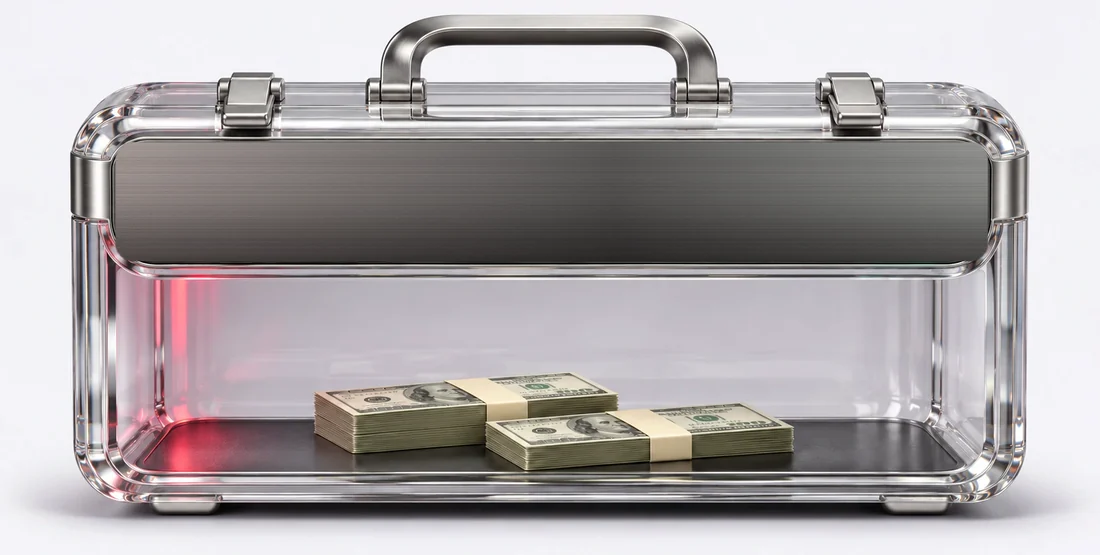
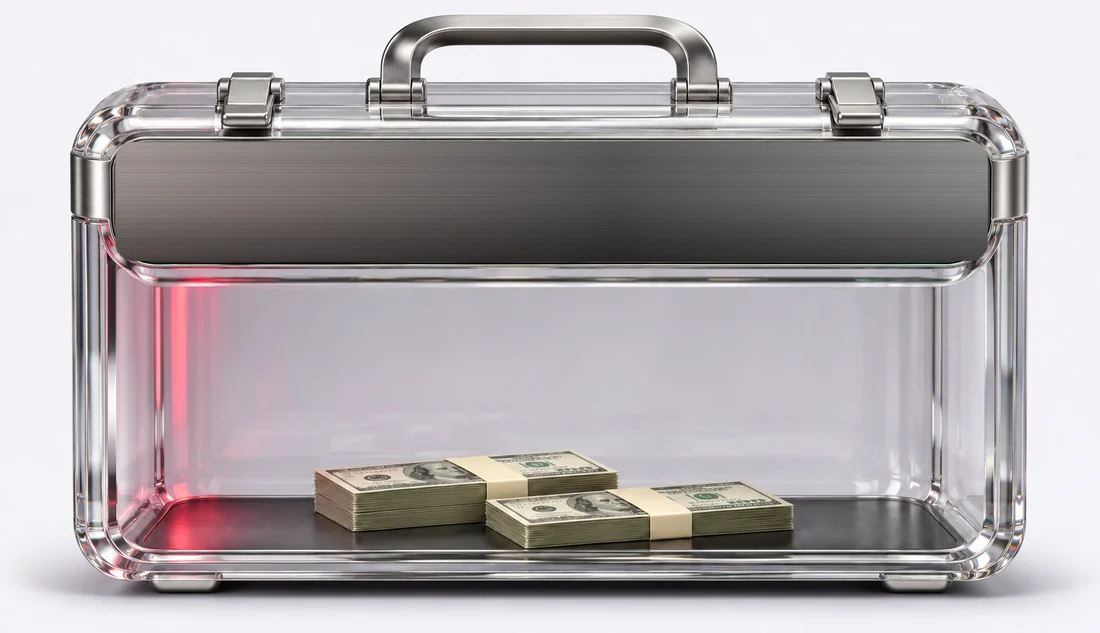
For influencers calculator: the case as wide as the cards round it, its glass body 15% taller; phones: the case's top, the plate as a card, its glass body
Claude-Session: https://claude.ai/code/session_01JhZ5DB5vxLeXKkYquUUDqb

diff --git a/site/for-influencers/index.html b/site/for-influencers/index.html
@@ -1005,9 +1005,10 @@ html.tq-mnav-on .tq-lfab { opacity: 0; pointer-events: none; transform: scale(.8
 .inf-calc__in { max-width: 1280px; margin: 0 auto; padding: 0 clamp(16px, 5vw, 72px); box-sizing: border-box; }
 .inf-calc__h2 { margin: 0 auto clamp(14px, 2vw, 28px); text-align: center; }
 .inf-calc__red { color: #b0101c; }
-.inf-calc__case { --cw: min(calc(100vw - 32px), 115%); position: relative; width: var(--cw); margin-left: calc((100% - var(--cw)) / 2); }
-.inf-calc__case picture, .inf-calc__img { display: block; width: 100%; height: auto; }
-.inf-calc__plate { --u: calc(100cqw / 1279); position: absolute; left: 10.484%; top: 25.584%; width: 79.342%; height: 21.525%; container-type: inline-size; color: #fff; }
+.inf-calc__case { position: relative; }
+.inf-calc__ph { display: none; }
+.inf-calc__wide, .inf-calc__img { display: block; width: 100%; height: auto; }
+.inf-calc__plate { --u: calc(100cqw / 1279); position: absolute; left: 10.484%; top: 22.414%; width: 79.342%; height: 18.858%; container-type: inline-size; color: #fff; }
 .inf-calc__plate > * { position: absolute; }
 .inf-calc__l { left: calc(34 * var(--u)); top: calc(14 * var(--u)); width: calc(360 * var(--u)); font-size: calc(32 * var(--u)); line-height: 1.02; letter-spacing: .02em; padding: 0;
   background: linear-gradient(180deg, #f4f4f6 0%, #a9abb1 55%, #e2e3e7 100%); -webkit-background-clip: text; background-clip: text; color: transparent; text-wrap: balance; }
@@ -1053,9 +1054,12 @@ html.tq-mnav-on .tq-lfab { opacity: 0; pointer-events: none; transform: scale(.8
 }
 @media (max-width: 640px) {
 .inf-calc { padding-bottom: var(--tq-gap); }
-.inf-calc__case { --cw: 100%; display: flex; flex-direction: column; }
-.inf-calc__case picture { order: 2; margin-top: -6px; }
-.inf-calc__plate { --u: .3px; position: relative; order: 1; left: auto; top: auto; width: auto; height: auto; container-type: normal; z-index: 1;
+.inf-calc__case { display: flex; flex-direction: column; }
+.inf-calc__wide { display: none; }
+.inf-calc__ph { display: block; width: 100%; height: auto; }
+.inf-calc__ph--top { order: 0; margin-bottom: -3px; }
+.inf-calc__ph--body { order: 2; margin-top: -3px; }
+.inf-calc__plate { --u: .3px; position: relative; order: 1; left: auto; top: auto; width: auto; height: auto; margin: 0 1.2%; container-type: normal; z-index: 1;
     display: grid; grid-template-columns: 1fr auto; grid-template-areas: "l o" "t t" "mm mm" "out out" "tabs tabs"; gap: 10px 12px; align-items: center; padding: 18px 16px 12px; border-radius: 18px;
     background: repeating-linear-gradient(180deg, rgba(255,255,255,.035) 0 1px, rgba(0,0,0,0) 1px 3px), linear-gradient(90deg, #4e4c4d 0%, #3c3b3c 50%, #2e2d2e 100%);
     box-shadow: 0 0 0 2px #b9bbc0, 0 0 0 4px #e9eaee, 0 14px 30px -14px rgba(0,0,0,.6); }
@@ -1566,12 +1570,14 @@ html.tq-mnav-on .tq-lfab { opacity: 0; pointer-events: none; transform: scale(.8
          calc_case.py) whose plate carries the live controls: clients you refer (a four-drum counter that rolls, a slider
          5–1000), the estimate in a red glass window and a Day / Month / Year switch (orbit.js). The estimate is the home
          page's own sum: clients × lots per client a month × $7.50 a lot (a day is a thirtieth of the month, a year twelve
-         months). Phones: the plate as a card over the case's glass body. -->
+         months). Phones: the case's top, the plate as a card, the case's glass body. -->
     <section id="calc" class="inf-calc" data-calc-case data-screen-label="Earnings calculator">
       <div class="inf-calc__in">
         <h2 class="inf-calc__h2 tq-h2" data-fitw>How much could you <span class="inf-calc__red">earn?</span></h2>
         <div class="inf-calc__case">
-          <picture><source media="(max-width: 640px)" srcset="../assets/influencers/calc-body-800.webp?v=19f4c8b9d8"><img class="inf-calc__img" src="../assets/influencers/calc-case-1600.webp?v=b8380c2732" srcset="../assets/influencers/calc-case-1100.webp 1100w, ../assets/influencers/calc-case-1600.webp 1600w" sizes="(max-width: 1280px) 100vw, 1180px" width="1600" height="807" alt="A glass briefcase with stacks of notes inside" loading="lazy" decoding="async"></picture>
+          <picture class="inf-calc__wide"><img class="inf-calc__img" src="../assets/influencers/calc-case-1600.webp?v=de0c53a586" srcset="../assets/influencers/calc-case-1100.webp 1100w, ../assets/influencers/calc-case-1600.webp 1600w" sizes="(max-width: 1280px) 100vw, 1136px" width="1600" height="921" alt="A glass briefcase with stacks of notes inside" loading="lazy" decoding="async"></picture>
+          <img class="inf-calc__ph inf-calc__ph--top" src="../assets/influencers/calc-top-800.webp?v=832df81afe" width="800" height="108" alt="" loading="lazy" decoding="async">
+          <img class="inf-calc__ph inf-calc__ph--body" src="../assets/influencers/calc-body-800.webp?v=773dab4928" width="800" height="292" alt="" loading="lazy" decoding="async">
           <div class="inf-calc__plate">
             <div class="inf-calc__l tq-h2">Clients you refer</div>
             <div class="inf-calc__odo" aria-hidden="true"><span class="inf-calc__drum"><span class="inf-calc__reel" data-calc-reel><i>0</i><i>1</i><i>2</i><i>3</i><i>4</i><i>5</i><i>6</i><i>7</i><i>8</i><i>9</i></span></span><span class="inf-calc__drum"><span class="inf-calc__reel" data-calc-reel><i>0</i><i>1</i><i>2</i><i>3</i><i>4</i><i>5</i><i>6</i><i>7</i><i>8</i><i>9</i></span></span><span class="inf-calc__drum"><span class="inf-calc__reel" data-calc-reel><i>0</i><i>1</i><i>2</i><i>3</i><i>4</i><i>5</i><i>6</i><i>7</i><i>8</i><i>9</i></span></span><span class="inf-calc__drum"><span class="inf-calc__reel" data-calc-reel><i>0</i><i>1</i><i>2</i><i>3</i><i>4</i><i>5</i><i>6</i><i>7</i><i>8</i><i>9</i></span></span></div>

diff --git a/site/assets/css/influencers.css b/site/assets/css/influencers.css
@@ -164,15 +164,16 @@
 
 /* ---- Earnings calculator (owner's design "How much could you earn?", November 2026): a glass briefcase, live controls
    on its lid plate. The plate is placed in % of the picture; inside it every size is in the design's px of the plate
-   (1279 x 175: --u, a container unit), so it scales with the case. The case is 15% wider than the page's column (owner's
-   wish), never wider than the screen. Phones: the plate as a card over the case's glass body (calc-body-800.webp). */
+   (1279 x 175: --u, a container unit), so it scales with the case. The case as wide as the cards round it, its glass body 15%
+   taller than drawn (owner's wish; calc_case.py). Phones: the case's top, the plate as a card, the case's body. */
 .inf-calc { background: #f3f2f7; padding: 0 0 var(--tq-gap); font-family: 'Inter', sans-serif; color: #0b0b0d; }
 .inf-calc__in { max-width: 1280px; margin: 0 auto; padding: 0 clamp(16px, 5vw, 72px); box-sizing: border-box; }
 .inf-calc__h2 { margin: 0 auto clamp(14px, 2vw, 28px); text-align: center; }
 .inf-calc__red { color: #b0101c; }
-.inf-calc__case { --cw: min(calc(100vw - 32px), 115%); position: relative; width: var(--cw); margin-left: calc((100% - var(--cw)) / 2); }
-.inf-calc__case picture, .inf-calc__img { display: block; width: 100%; height: auto; }
-.inf-calc__plate { --u: calc(100cqw / 1279); position: absolute; left: 10.484%; top: 25.584%; width: 79.342%; height: 21.525%; container-type: inline-size; color: #fff; }
+.inf-calc__case { position: relative; }
+.inf-calc__ph { display: none; }
+.inf-calc__wide, .inf-calc__img { display: block; width: 100%; height: auto; }
+.inf-calc__plate { --u: calc(100cqw / 1279); position: absolute; left: 10.484%; top: 22.414%; width: 79.342%; height: 18.858%; container-type: inline-size; color: #fff; }
 .inf-calc__plate > * { position: absolute; }
 .inf-calc__l { left: calc(34 * var(--u)); top: calc(14 * var(--u)); width: calc(360 * var(--u)); font-size: calc(32 * var(--u)); line-height: 1.02; letter-spacing: .02em; padding: 0;
   background: linear-gradient(180deg, #f4f4f6 0%, #a9abb1 55%, #e2e3e7 100%); -webkit-background-clip: text; background-clip: text; color: transparent; text-wrap: balance; }
@@ -220,9 +221,12 @@
 /* phones: the plate a card (its own brushed dark metal, a chrome rim), in two rows, over the case's glass body */
 @media (max-width: 640px) {
   .inf-calc { padding-bottom: var(--tq-gap); }
-  .inf-calc__case { --cw: 100%; display: flex; flex-direction: column; }
-  .inf-calc__case picture { order: 2; margin-top: -6px; }
-  .inf-calc__plate { --u: .3px; position: relative; order: 1; left: auto; top: auto; width: auto; height: auto; container-type: normal; z-index: 1;
+  .inf-calc__case { display: flex; flex-direction: column; }
+  .inf-calc__wide { display: none; }
+  .inf-calc__ph { display: block; width: 100%; height: auto; }
+  .inf-calc__ph--top { order: 0; margin-bottom: -3px; }
+  .inf-calc__ph--body { order: 2; margin-top: -3px; }
+  .inf-calc__plate { --u: .3px; position: relative; order: 1; left: auto; top: auto; width: auto; height: auto; margin: 0 1.2%; container-type: normal; z-index: 1;
     display: grid; grid-template-columns: 1fr auto; grid-template-areas: "l o" "t t" "mm mm" "out out" "tabs tabs"; gap: 10px 12px; align-items: center; padding: 18px 16px 12px; border-radius: 18px;
     background: repeating-linear-gradient(180deg, rgba(255,255,255,.035) 0 1px, rgba(0,0,0,0) 1px 3px), linear-gradient(90deg, #4e4c4d 0%, #3c3b3c 50%, #2e2d2e 100%);
     box-shadow: 0 0 0 2px #b9bbc0, 0 0 0 4px #e9eaee, 0 14px 30px -14px rgba(0,0,0,.6); }

diff --git a/tools/i18n/influencers.html b/tools/i18n/influencers.html
@@ -260,12 +260,14 @@
          calc_case.py) whose plate carries the live controls: clients you refer (a four-drum counter that rolls, a slider
          5–1000), the estimate in a red glass window and a Day / Month / Year switch (orbit.js). The estimate is the home
          page's own sum: clients × lots per client a month × $7.50 a lot (a day is a thirtieth of the month, a year twelve
-         months). Phones: the plate as a card over the case's glass body. -->
+         months). Phones: the case's top, the plate as a card, the case's glass body. -->
     <section id="calc" class="inf-calc" data-calc-case data-screen-label="Earnings calculator">
       <div class="inf-calc__in">
         <h2 class="inf-calc__h2 tq-h2" data-fitw>{{inf.calc.h2a}} <span class="inf-calc__red">{{inf.calc.h2b}}</span></h2>
         <div class="inf-calc__case">
-          <picture><source media="(max-width: 640px)" srcset="{{root}}assets/influencers/calc-body-800.webp"><img class="inf-calc__img" src="{{root}}assets/influencers/calc-case-1600.webp" srcset="{{root}}assets/influencers/calc-case-1100.webp 1100w, {{root}}assets/influencers/calc-case-1600.webp 1600w" sizes="(max-width: 1280px) 100vw, 1180px" width="1600" height="807" alt="{{@inf.calc.alt}}" loading="lazy" decoding="async"></picture>
+          <picture class="inf-calc__wide"><img class="inf-calc__img" src="{{root}}assets/influencers/calc-case-1600.webp" srcset="{{root}}assets/influencers/calc-case-1100.webp 1100w, {{root}}assets/influencers/calc-case-1600.webp 1600w" sizes="(max-width: 1280px) 100vw, 1136px" width="1600" height="921" alt="{{@inf.calc.alt}}" loading="lazy" decoding="async"></picture>
+          <img class="inf-calc__ph inf-calc__ph--top" src="{{root}}assets/influencers/calc-top-800.webp" width="800" height="108" alt="" loading="lazy" decoding="async">
+          <img class="inf-calc__ph inf-calc__ph--body" src="{{root}}assets/influencers/calc-body-800.webp" width="800" height="292" alt="" loading="lazy" decoding="async">
           <div class="inf-calc__plate">
             <div class="inf-calc__l tq-h2">{{inf.calc.clients}}</div>
             <div class="inf-calc__odo" aria-hidden="true"><span class="inf-calc__drum"><span class="inf-calc__reel" data-calc-reel><i>0</i><i>1</i><i>2</i><i>3</i><i>4</i><i>5</i><i>6</i><i>7</i><i>8</i><i>9</i></span></span><span class="inf-calc__drum"><span class="inf-calc__reel" data-calc-reel><i>0</i><i>1</i><i>2</i><i>3</i><i>4</i><i>5</i><i>6</i><i>7</i><i>8</i><i>9</i></span></span><span class="inf-calc__drum"><span class="inf-calc__reel" data-calc-reel><i>0</i><i>1</i><i>2</i><i>3</i><i>4</i><i>5</i><i>6</i><i>7</i><i>8</i><i>9</i></span></span><span class="inf-calc__drum"><span class="inf-calc__reel" data-calc-reel><i>0</i><i>1</i><i>2</i><i>3</i><i>4</i><i>5</i><i>6</i><i>7</i><i>8</i><i>9</i></span></span></div>

diff --git a/tools/influencers/calc_case.py b/tools/influencers/calc_case.py
@@ -2,10 +2,10 @@
 "HOW MUCH COULD YOU EARN?" over a glass briefcase with a dark metal plate on its lid: clients you refer (a counter and
 a slider), the earnings and a Day / Month / Year switch; two stacks of notes inside). The page draws the heading and
 everything on the plate live (influencers.css .inf-calc, orbit.js); this makes the pictures:
-  calc-case-{1600,1100}.webp   the briefcase (the heading cut off), its plate wiped clean (every row of the plate
+  calc-case-{1600,1100}.webp   the briefcase (the heading cut off, its glass body 15% taller), its plate wiped clean (every row of the plate
                                carried across from a clean strip of it, x 912..948, shaded left to right as the plate
                                is), so the live controls lie on it
-  calc-body-800.webp           phones: the case's glass body under the plate (the controls stand over it in a card)
+  calc-top-800.webp, calc-body-800.webp   phones: the case's top and its glass body (the plate a card between them)
 Run:  python3 tools/influencers/calc_case.py"""
 import os
 import numpy as np
@@ -44,14 +44,25 @@ basis = lambda m: np.stack([np.ones(m.sum()), u[m], v[m], u[m] ** 2, v[m] ** 2, 
 allm = np.ones((H_, W_), bool)
 bg = np.stack([(basis(allm) @ np.linalg.lstsq(basis(band), a[..., c][band], rcond=None)[0]).reshape(H_, W_) for c in range(3)], 2)
 a = np.where(a <= bg, a * TO / bg, TO + (a - bg) * (255 - TO) / np.maximum(255 - bg, 1))
+# the case 15% taller (owner's wish): its glass body stretched by 15% of the case's height (149..913) in a band of plain
+# glass between the plate and the notes (y 525..665: the walls run straight down there, nothing else in it)
+YA, YB = 525, 665
+add = round(.15 * (913 - 149))
+band = Image.fromarray(np.clip(a[YA:YB] + .5, 0, 255).astype(np.uint8)).resize((a.shape[1], YB - YA + add), Image.BICUBIC)
+a = np.concatenate([a[:YA], np.asarray(band).astype(float), a[YB:]], 0)
 img = Image.fromarray(np.clip(a + .5, 0, 255).astype(np.uint8))
-case = img.crop((30, 128, 1642, 941))
+CT, CB = 128, a.shape[0]
+case = img.crop((30, CT, 1642, CB))
 for w in (1600, 1100):
     p = case.resize((w, round(case.height * w / case.width)), Image.LANCZOS)
     p.save(os.path.join(OUT, 'calc-case-%d.webp' % w), quality=86, method=6)
     print('calc-case-%d.webp' % w, p.size, os.path.getsize(os.path.join(OUT, 'calc-case-%d.webp' % w)) // 1024, 'KB')
-body = img.crop((120, 520, 1552, 941))
+# phones: the case's top (handle, clasps, the lid's rim down to the plate) and its glass body (from under the plate);
+# the plate itself is a card between them (influencers.css)
+top = img.crop((120, 140, 1552, Y0 - 2))
+top.resize((800, round(top.height * 800 / top.width)), Image.LANCZOS).save(os.path.join(OUT, 'calc-top-800.webp'), quality=86, method=6)
+body = img.crop((120, Y1 + 2, 1552, CB - 20))
 body = body.resize((800, round(body.height * 800 / body.width)), Image.LANCZOS)
 body.save(os.path.join(OUT, 'calc-body-800.webp'), quality=86, method=6)
-print('calc-body-800.webp', body.size)
-print('plate in the case crop (%%): left %.3f top %.3f width %.3f height %.3f' % ((X0 - 30) / 1612 * 100, (Y0 - 128) / 813 * 100, (X1 - X0) / 1612 * 100, (Y1 - Y0) / 813 * 100))
+print('phone top / body', round(top.height * 800 / top.width), body.size)
+print('case', case.size, 'plate (%%): left %.3f top %.3f width %.3f height %.3f' % ((X0 - 30) / case.width * 100, (Y0 - CT) / case.height * 100, (X1 - X0) / case.width * 100, (Y1 - Y0) / case.height * 100))

diff --git a/README.md b/README.md
@@ -291,7 +291,7 @@ HTTPS (Let's Encrypt) Netlify включит сам.
 
 **Блок «Three numbers»** (с 25 ноября 2026 — светлый стеклянный вариант по макету владельца, `tools/influencers/numbers-src/glass-design.webp`; прежний титановый с цифрами-туманностями заменён, он есть в истории git) — `#numbers`, после «Next star». Светлая карточка (#f9f8fd, мягкая тень), «THREE NUMBERS. / ZERO FINE PRINT.» и три стеклянные строки-пилюли: 87% — Revenue share, ∞ — Sub-partners, 365 — Paydays a year. **Стекло — из самого макета:** `python3 tools/influencers/nums_glass.py` вырезает левый край второй строки макета, зеркалит его вправо и продолжает середину его последним столбцом (без швов) → `nums-row.webp`, которая кладётся как 9-slice `border-image`, а её ободок масштабируется с высотой строки (`--rh`). Цифры — живой текст шрифтом заголовков, залитый красным шлифованным металлом (`nums-red.webp`, рисует тот же скрипт), с тёмно-красным торцом и бликом; ∞ — лемниската из SVG-маски (`nums-loop-*.svg`). **Раскрытие:** изначально все строки одинаковые, видно только номер и название; при наведении мыши (или фокусе с клавиатуры) строка плавно растёт (`--rh` — зарегистрированная длина, анимируется), цифра вместе с ней, и выплывает пояснение (of everything your audience brings in / build a team with no ceiling / paid out every single day). На телефонах наведения нет — строка раскрывается по нажатию, закрывается повторным нажатием на неё или нажатием в любом другом месте страницы (открыта одна; `orbit.js`), цифра там не растёт (узкая колонка), растёт только строка под пояснение. `aria-expanded` следует за состоянием. **Без своей карточки** (по просьбе владельца): строки стоят прямо на фоне страницы, рамка `nums-row.webp` — только стекло: вне капсулы полностью прозрачная, внутри каждый пиксель переведён в белый/чёрный с прозрачностью относительно фона страницы (лицо капсулы — прозрачное стекло, ободок и блики остаются), никаких светлых прямоугольников вокруг. **Подсветка выбранной строки:** насыщенное красное свечение на её левом и правом краю (`.inf-nums__row::after`), плавно появляется на строке под мышью / открытой нажатием и гаснет на прежней. Тексты — `inf.nums.*`, стили — `.inf-nums*` в `influencers.css`.
 
-**Калькулятор «How much could you earn?»** (макет владельца, ноябрь 2026, `tools/influencers/numbers-src/case-design.webp`) — сразу после стеклянных строк «Three numbers», `#calc`. Стеклянный чемодан из макета (на 15% шире колонки соседних блоков, но не шире экрана); на металлической табличке его крышки — живые элементы: «Clients you refer», счётчик из четырёх барабанов (цифры прокручиваются), ползунок 5–1000 (по умолчанию 181, как в макете), сумма в красном стеклянном окне (считается с плавным перебором) и переключатель Day / Month / Year (бирюзовый, как в макете). Картинка — `python3 tools/influencers/calc_case.py`: заголовок макета срезан (он живой текст), табличка вычищена (каждая строка таблички протянута из её чистой полосы с тем же затенением слева направо), фон выровнен под страницу → `calc-case-{1600,1100}.webp`, для телефона — только стеклянный корпус `calc-body-800.webp`. Размеры элементов на табличке — в px макета таблички (1279 × 175) через container units, поэтому всё масштабируется вместе с чемоданом. На телефоне табличка — отдельная карточка над корпусом: подпись и счётчик, ползунок, сумма, переключатель. **Расчёт — как на главной:** клиенты × лоты на клиента в месяц × $7,50 за лот; день — 1/30 месяца, год — 12 месяцев. **Лотов на клиента — 130 в месяц: это стартовое значение калькулятора главной, а не подтверждённая средняя для клиентов блогеров** — поменять: `LOTS` в `orbit.js` (блок калькулятора). Тексты — `inf.calc.*`, стили — `.inf-calc*`.
+**Калькулятор «How much could you earn?»** (макет владельца, ноябрь 2026, `tools/influencers/numbers-src/case-design.webp`) — сразу после стеклянных строк «Three numbers», `#calc`. Стеклянный чемодан из макета шириной как соседние блоки, его стеклянный корпус на 15% выше, чем в макете (по просьбе владельца: полоса чистого стекла между табличкой и деньгами растянута на 15% высоты чемодана); на металлической табличке его крышки — живые элементы: «Clients you refer», счётчик из четырёх барабанов (цифры прокручиваются), ползунок 5–1000 (по умолчанию 181, как в макете), сумма в красном стеклянном окне (считается с плавным перебором) и переключатель Day / Month / Year (бирюзовый, как в макете). Картинка — `python3 tools/influencers/calc_case.py`: заголовок макета срезан (он живой текст), табличка вычищена (каждая строка таблички протянута из её чистой полосы с тем же затенением слева направо), фон выровнен под страницу → `calc-case-{1600,1100}.webp`, для телефона — верх чемодана (ручка, замки, край крышки) `calc-top-800.webp` и стеклянный корпус `calc-body-800.webp`. Размеры элементов на табличке — в px макета таблички (1279 × 175) через container units, поэтому всё масштабируется вместе с чемоданом. На телефоне чемодан собран из трёх частей: верх с ручкой, табличка крупной карточкой (подпись и счётчик, ползунок, сумма, переключатель) и стеклянный корпус с деньгами. **Расчёт — как на главной:** клиенты × лоты на клиента в месяц × $7,50 за лот; день — 1/30 месяца, год — 12 месяцев. **Лотов на клиента — 130 в месяц: это стартовое значение калькулятора главной, а не подтверждённая средняя для клиентов блогеров** — поменять: `LOTS` в `orbit.js` (блок калькулятора). Тексты — `inf.calc.*`, стили — `.inf-calc*`.
 
 **Блок «Incentive trips»** — четвёртый на странице, после «Three numbers», `#trips`. **С ноября 2026 — по второму дизайну владельца** (`tools/influencers/trips-design.webp`, 1763 × 892): без тёмной карточки, на светлом фоне страницы. Слева живой текст — «Incentive trips» (красным), «THE TRIP IS» / «ON US.» (Syncopate, `tq-h2`), абзац и три строки (Flights and stay — Covered, Yacht day and dinners — Covered, How you qualify — Results, красным); справа — картинка из дизайна: три сторис поездки в Дубай в стеклянных телефонах (приезд в отель, яхта, ужин на закате). Картинку делает `python3 tools/influencers/trips.py` → `site/assets/influencers/trips-{520,780,1040}.webp` (36–99 КБ): вырезает телефоны с полем, фон дизайна (сиреневатый, к краям темнее) выравнивает под ровный фон страницы #f3f2f7 (фон измеряется вокруг телефонов), края картинки на странице плавно растворяются (маска в CSS). «ON US.» — бирюзовый, как в дизайне, и **с анимацией воды из первого варианта** (по просьбе владельца): фото воды (`nums-water-*.webp`) медленно плывёт внутри букв (22 с туда и обратно), поверх — бирюзовый цвет дизайна (`background-blend-mode: color`: вода сохраняет свет и тени). Анимация идёт только пока блок на экране (`orbit.js` ставит `.is-on`), при «уменьшить движение» — стоит; на телефоне ≈20% главного потока в эмуляции iPhone с CPU ×4 (≈5% на реальном). Колонка та же, что у карточек выше; до 900px — текст, под ним картинка во всю ширину. Тексты — `inf.trip.*` в `strings/influencers/en.json`, стили — `.inf-trip*` в `influencers.css`. Первый вариант блока (тёмная карточка со сторис-заглушками, дизайн «Incentive Trips» 7d) заменён; он есть в истории git.
 
